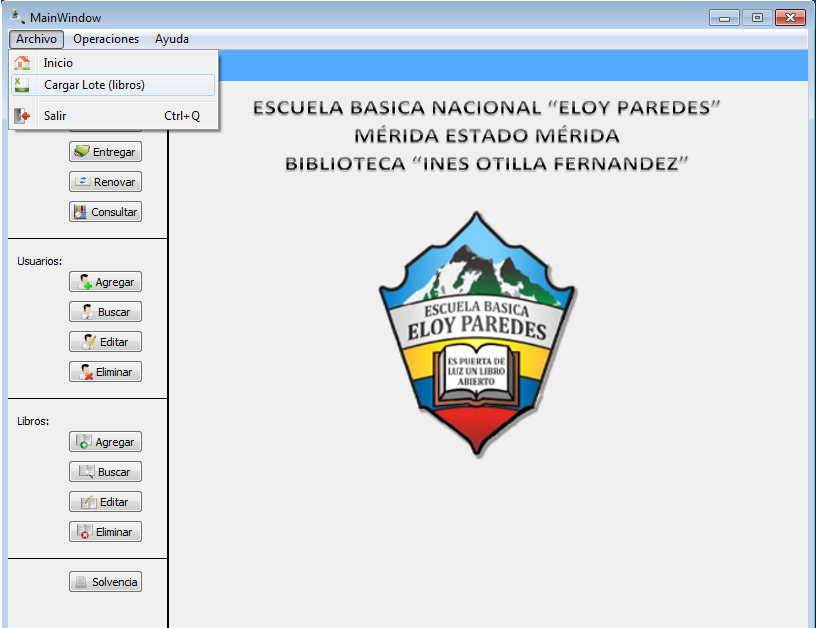
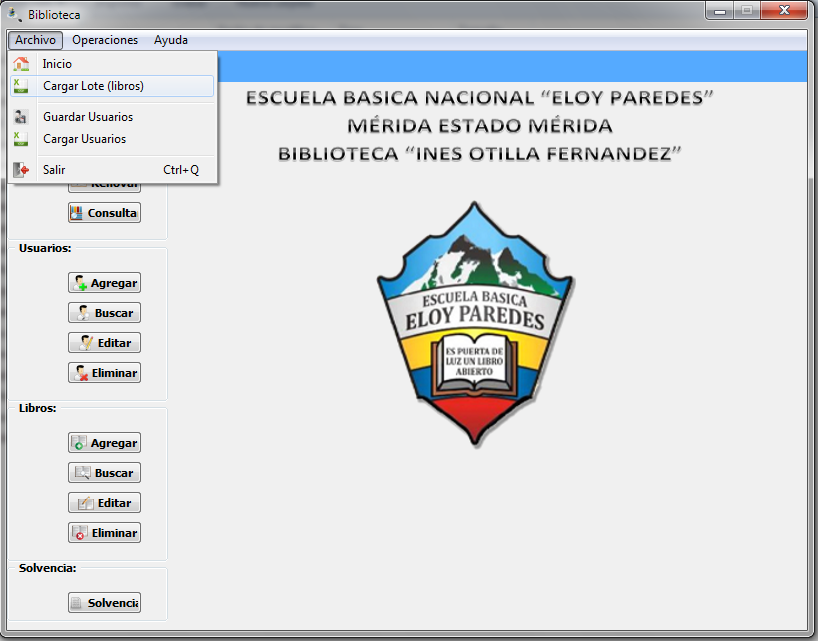
Manual y imagen para usuario.

diff --git a/manual/csv.html b/manual/csv.html
@@ -14,7 +14,7 @@
 				<strong>Microsoft Office: </strong>Que es una <span class="mw-redirect">suite de oficina</span> <span class="mw-redirect">propietario / Microsoft CLUF,</span> que abarca e interrelaciona aplicaciones de escritorio, servidores. Office algunas de las herramientas que contiene son un procesador de texto Microsoft Word, un editor de hojas de c&aacute;lculo Microsoft Excel y un creador de presentaciones Microsoft PowerPoint.</li>
 		</ul>
 		<p>
-			Contamos con un archivo llamado plantilla.xls, esta plantilla se usar&aacute; para llenar los datos de los libros. Veremos como guardar el archivo con extensi&oacute;n csv delimitado por (;) en las siguientes herramientas:</p>
+			Contamos con un archivo llamado plantillaLibro.xls y plantillaUsuario.xls, esta plantilla se usar&aacute; para llenar los datos de los libros y usuarios respectivamente. Veremos como guardar el archivo con extensi&oacute;n csv delimitado por (;) en las siguientes herramientas:</p>
 		<h1>
 			LibreOffice Calc<a target="ventana">:</a></h1>
 		<p>

diff --git a/manual/loadlote.html b/manual/loadlote.html
@@ -4,9 +4,9 @@
 	</head>
 	<body>
 		<h1 style="text-align: center;">
-			<a target="ventana">&iquest;C&oacute;mo cargar archivo por lote?</a></h1>
+			<a target="ventana">&iquest;C&oacute;mo cargar libro por lote?</a></h1>
 		<p>
-			Para realizar la operaci&oacute;n de cargar arvhivo por lote existe una forma de realizar dicha operaci&oacute;n:</p>
+			Para realizar la operaci&oacute;n de cargar libro por lote existe una forma de realizar dicha operaci&oacute;n:</p>
 		<ol>
 			<li>
 				Mediante el menu <strong>Archivo -&gt; Cargar Lote (Libros)</strong> (Como se muestra en la siguiente figura)</li>

diff --git a/manual/links.html b/manual/links.html
@@ -39,7 +39,9 @@ Libro:<UL>
 
 <a href = "solvencia.html" target = "ventana"> &#191;Generar solvencia?</a><br/>
 <a href = "csv.html" target = "ventana"> &#191;C&oacute;mo crear archivo extensi&oacute;n csv?</a><br/>
-<a href = "loadlote.html" target = "ventana"> &#191;C&oacute;mo cargar archivo por lote?</a><br/>
+<a href = "loadlote.html" target = "ventana"> &#191;C&oacute;mo cargar libro por lote?</a><br/>
+<a href = "loadUser.html" target = "ventana"> &#191;C&oacute;mo cargar usuario por lote?</a><br/>
+
 
 
 </body>
